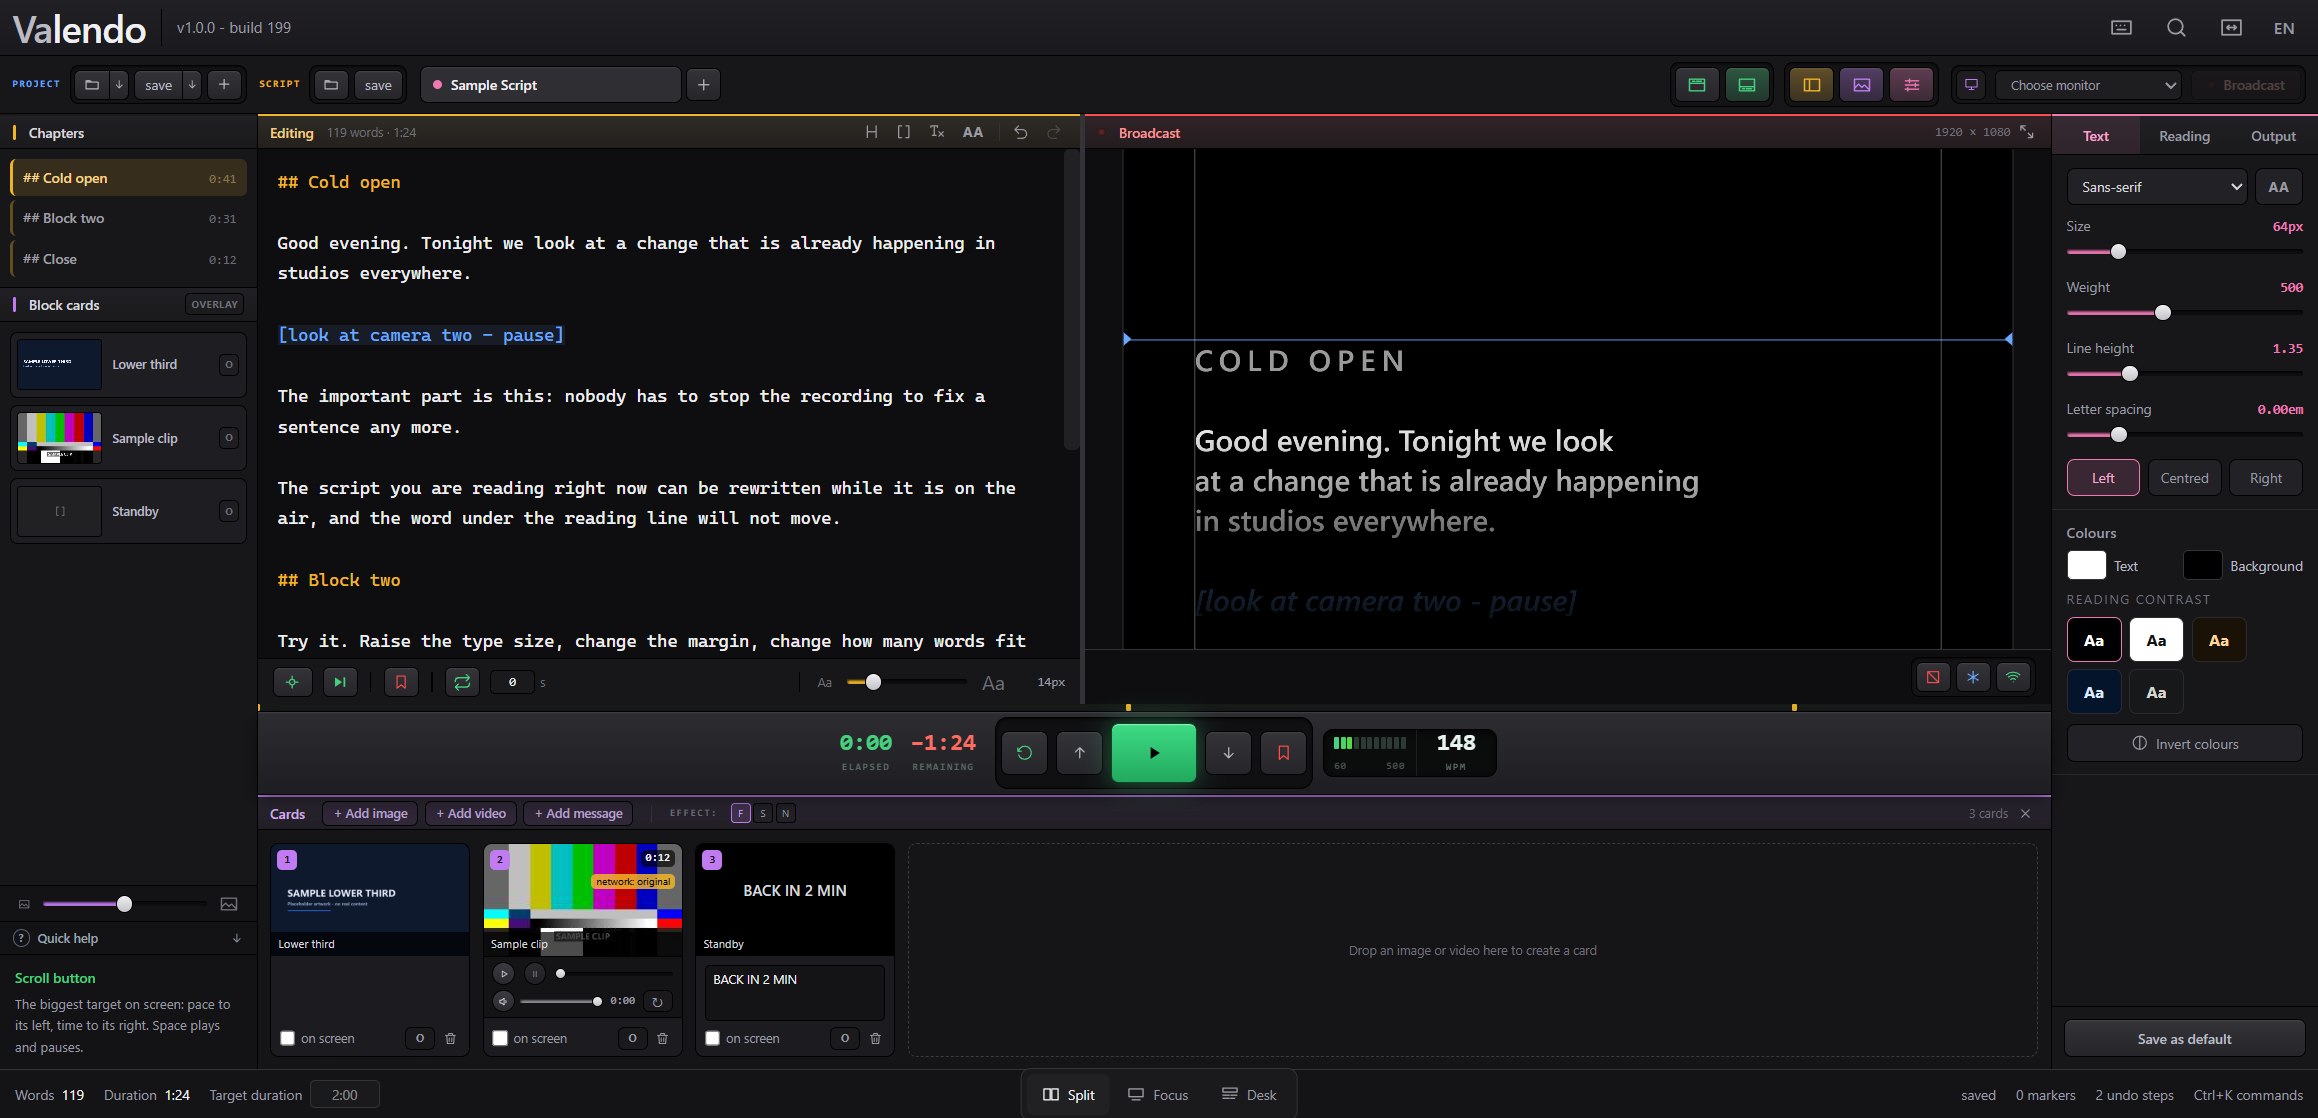
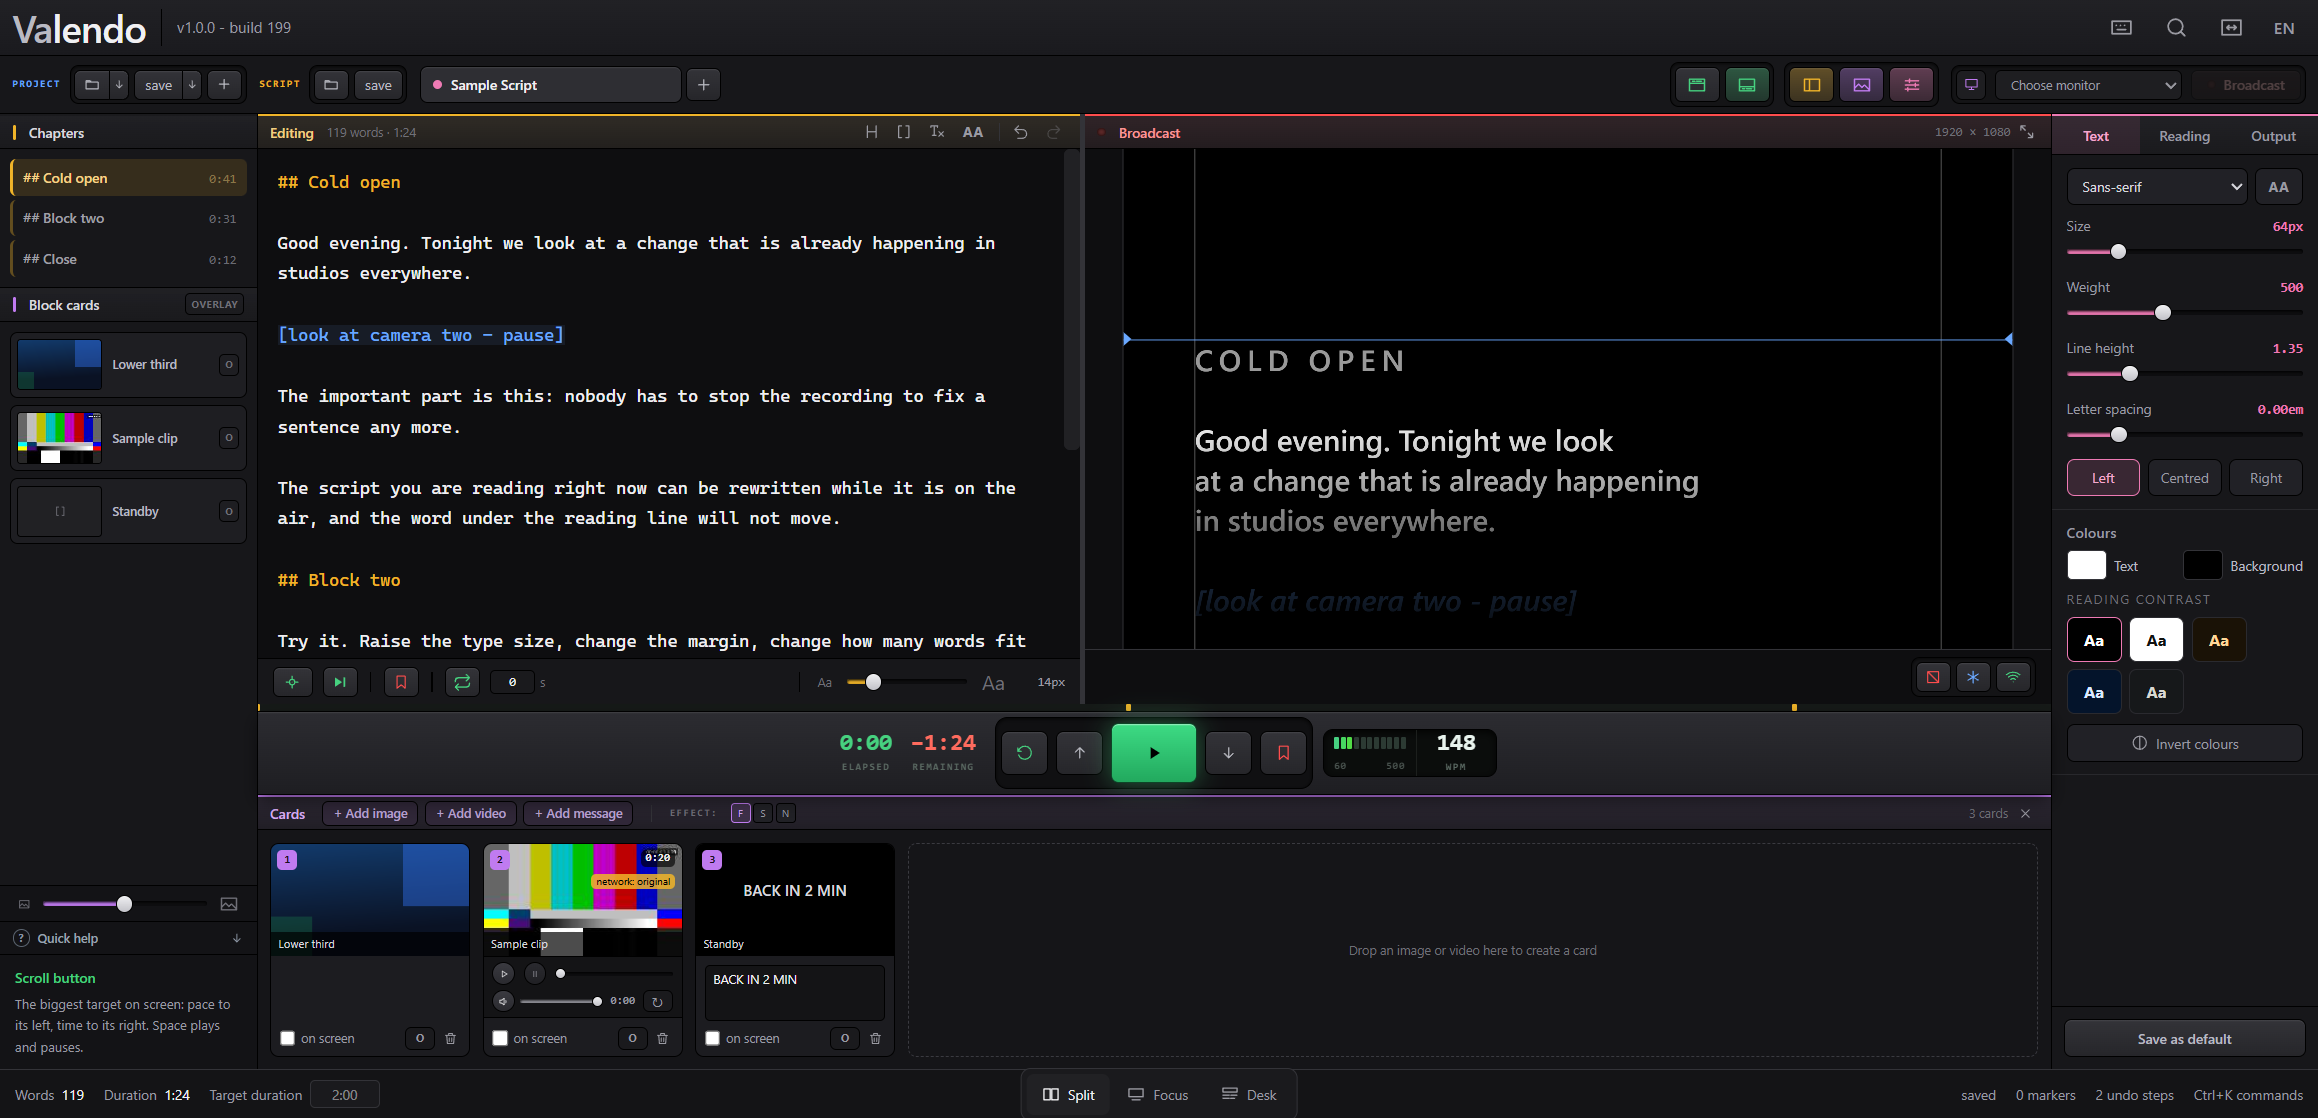
README enxuto, e uma foto de overlay que explica o overlay
O README tinha material que é de quem trabalha no código, não de quem chega
pelo GitHub: como o número de build sobe, a estrutura de pastas, a tabela de
arquivos em userData, a lista inteira de comandos npm. Isso foi para a wiki,
que já era o lugar, e o README ficou sendo o que deveria: o que o app é, por
que existe, o que faz, com imagem, e como instalar.

A nota do ffmpeg não saiu inteira, virou uma linha com link. Ela é obrigação
de licença, não capricho: o instalador redistribui um binário GPL, e quem
redistribui tem de dizer onde está o fonte correspondente. O texto completo,
com as flags de compilação, continua na wiki.

A FOTO DO OVERLAY. A que existia usava a arte de exemplo, e a arte tinha
texto próprio — resultado, texto sobre texto, que não explica ideia nenhuma.
Agora são duas: um clipe no ar com o roteiro por cima (barras de teste, sem
palavra nenhuma no meio) e a mesma coisa com uma arte abstrata, refeita sem
letras. O cronômetro do clipe foi para o canto superior direito, longe de
onde o roteiro rola.

As capturas foram renumeradas para caber a nova, e a wiki acompanhou.

Feito com Claude Code

Changed region(s): [[0.0932, 0.7299, 0.2174, 0.8515], [0.0, 0.3041, 0.0621, 0.3345]]

diff --git a/README.md b/README.md
@@ -6,7 +6,7 @@ A teleprompter for Windows and macOS where the operator **rewrites the script wh
 
 ![The operator window: editor on the left, an exact replica of the presenter's screen on the right](docs/screenshots/02-split.png)
 
-Free software under the GPL — see [Licence](#licence).
+**[Documentation is in the wiki →](https://github.com/samaBR85/Valendo-TeleprompterSuite/wiki)**
 
 ---
 
@@ -16,11 +16,7 @@ Ordinary teleprompters store the scroll position **in pixels**. Any change to th
 
 Here the position is a **semantic anchor**: `{ blockId, wordOffset }`. After any reflow the pixel is recomputed from it. Inserting paragraphs above the reading point, raising the type size or changing the margin does not move the word being read.
 
-Three design consequences follow:
-
-- **A clock, not messages.** The main process keeps only `{ppm, wordsAtStart, startedAt}`; each window derives its own position inside a `requestAnimationFrame`. No per-frame traffic, no drift between the preview and the output.
-- **One component.** `PrompterCanvas` draws the broadcast *and* the operator's preview. The preview runs at the output's real viewport and only gets a `scale()`. The replica is exact by construction, not by calibration.
-- **Line composition independent of the font.** Lines are composed by a word rule (min/max, never ending on a preposition), not by the browser. Changing the type size changes the height, never which words land on which line.
+[The Reading Anchor](https://github.com/samaBR85/Valendo-TeleprompterSuite/wiki/The-Reading-Anchor) explains what follows from that — a clock instead of messages, one component drawing both screens, and lines composed by words rather than by the browser.
 
 ---
 
@@ -28,45 +24,41 @@ Three design consequences follow:
 
 ### Live editing, on air
 
-The left panel is the script; the right panel is what the presenter sees, at the output's real resolution. Chapters open with `##`, stage directions go in `[square brackets]` and are painted, never spoken aloud by the count. The footer keeps word count, duration and target duration in view.
+The left panel is the script; the right panel is what the presenter sees, at the output's real resolution. `##` opens a chapter, `[square brackets]` mark a stage direction.
 
-### Cards over or under the text
+### Cards over or under the script
 
-![Cards drawer with an image, a video and a message card, one of them overlaying the script](docs/screenshots/04-overlay.png)
+![A video card on air with the script riding over it](docs/screenshots/05-overlay-video.png)
 
-Three kinds of card — image, video, message — go to the presenter's screen with one click or a number key. Each card either **replaces** the script or **rides over it**, which is how a lower third and a caption share the same screen. Legibility over a card is a three-way choice: dark band, per-letter shadow, or nothing.
+Images, video and messages go to the presenter's screen with one click or a number key. Each card either **replaces** the script or **rides over it**, which is how a lower third and a caption share the same screen. Legibility over a card is a three-way choice: dark band, per-letter shadow, or nothing.
 
-Video plays the file as it arrived whenever the browser can handle it — most phone `.mov` files play untouched. When it cannot (ProRes, matroska, avi), ffmpeg first tries to change only the container, which takes seconds and does not touch a pixel, and re-encodes only when the content genuinely will not fit an mp4.
+![An image card with the script over it, and the cards drawer below](docs/screenshots/04-overlay-image.png)
 
-![The cards drawer with the player row, per-card overlay toggles and the drop zone](docs/screenshots/03-cards.png)
+Video plays the file as it arrived whenever the browser can handle it. When it cannot, ffmpeg first tries to change only the container — seconds, no pixel touched — and re-encodes only when the content genuinely will not fit an mp4.
 
 ### Three ways to work
 
-**Split** is the picture above. **Focus** hides everything except the script and the transport, for the last rehearsal before air.
+**Split** is the picture at the top. **Focus** hides everything except the script and the transport. **Desk** turns the script into a rundown with a timeline.
 
-![Focus mode](docs/screenshots/05-focus.png)
-
-**Desk** turns the script into a rundown: blocks with word counts, durations and on-air status, and a timeline across the top.
-
-![Desk mode with the rundown and the timeline](docs/screenshots/06-deck.png)
+![Desk mode with the rundown and the timeline](docs/screenshots/07-desk.png)
 
 ### The presenter's screen
 
-![The presenter's screen: the reading line, the current sentence bright, what is coming dimmed](docs/screenshots/08-broadcast.png)
+![The presenter's screen](docs/screenshots/09-broadcast.png)
 
-Picks any connected monitor, identifies which is which on screen, survives a monitor being unplugged mid-show. Mirror on either axis, 90° rotation, blackout and freeze.
+Any connected monitor, identified on screen before you send a show to it. Mirror on either axis, 90° rotation, blackout and freeze. Survives a monitor being unplugged mid-show.
 
 ### Anyone on the wi-fi can follow along
 
-![The network panel with the address, a QR code and the video weight profiles](docs/screenshots/07-network.png)
+![The network panel with the address and a QR code](docs/screenshots/08-network.png)
 
-One switch publishes the reading to a local page. A phone points its camera at the QR code and follows the same scroll, cards included. Video going to the network can be throttled to five weight profiles; the presenter's screen always gets the original.
+One switch publishes the reading to a local page. A phone points its camera at the QR code and follows the same scroll, cards included. Video to the network can be throttled; the presenter's screen always gets the original.
 
 ### It opens without opening your work
 
-![The welcome screen: language, recent projects, and four ways in](docs/screenshots/01-welcome.png)
+![The welcome screen](docs/screenshots/01-welcome.png)
 
-The app never restores the last script by itself. Opening Valendo in someone else's studio, or with the screen already mirrored to a wall, used to reveal the previous show without anyone asking — and a script is a client's material. The screen starts blank and **Pick up where I left off** is a deliberate click.
+The app never restores the last script by itself. Opening Valendo in someone else's studio, or with the screen already mirrored to a wall, would otherwise reveal the previous show without anyone asking — and a script is a client's material. The screen starts blank and **Pick up where I left off** is a deliberate click.
 
 ---
 
@@ -86,74 +78,20 @@ The app never restores the last script by itself. Opening Valendo in someone els
 | Console | Command palette, remappable keys, UI scale, transport at the top or in the footer bar |
 | Languages | English, Portuguese (Brazil), Spanish, German, French, Italian |
 
-Machine preferences (window size, panel widths, thumbnail size, UI scale) are kept apart from the project, so a `.valendo` sent to a colleague never resizes their console.
-
-### Import cleanup
-
-Text is cleaned before it becomes a script: a word hyphenated at a line break is rejoined, a line that was only a page break is merged, repeated headers and page numbers are dropped, quotes are straightened, and legacy encodings are detected — an old Windows-1252 `.txt` does not turn into a soup of diamonds.
-
-In PDFs the text is rebuilt from fragment coordinates, two-column layouts included, and a sentence that crosses a page break comes back whole. A scanned PDF is flagged as such; OCR is the next milestone.
-
 ---
 
-## Running from source
+## Install
+
+**Windows** — run `Valendo-1.0.0-setup.exe`. It installs per user, so it does not ask for an administrator password.
+
+**From source** —
 
 ```bash
 npm install
 npm run dev
 ```
 
-| Command | What it does |
-|---|---|
-| `npm run build` | Bundles main, preload and renderer into `out/` |
-| `npm test` | Tests the pure logic in `src/shared` and `src/main` |
-| `npm run typecheck` | Type check |
-| `npm run start:debug` | Runs the built app with remote debugging on port 9222 |
-| `npm run verify` | Checks the acceptance criteria against the running app (needs `start:debug`) |
-| `npm run dist:win` | Builds the Windows installer (NSIS) into `dist/` |
-
-If `npm install` does not fetch the Electron binary, run `node node_modules/electron/install.js`.
-
-Windows users who do not have Node installed can double-click **Abrir Valendo.bat**, which installs and builds on the first run.
-
----
-
-## Layout
-
-```
-src/main/       windows, monitors, authoritative state, persistence
-src/preload/    the IPC bridge exposed to the renderer
-src/shared/     pure, testable logic: anchor, lines, pacing, history, commands
-src/renderer/   prompter (shared), operator interface, broadcast window
-scripts/        end-to-end verification over the Chromium protocol
-docs/           screenshots used here and in the wiki
-```
-
-User data lives in `userData`:
-
-| File | What it holds |
-|---|---|
-| `workspace.json` | The last session, restored only when you ask for it |
-| `history/<tabId>.jsonl` | Persisted infinite undo |
-| `recentes.json` | Recent projects (per machine, never inside a `.valendo`) |
-| `defaults.json` | How a new tab is born |
-| `ui.json` | Interface scale |
-| `keymap.json` | Remapped keys |
-| `cartoes/`, `convertidos/` | Card artwork and playable video copies |
-
----
-
-## Versioning
-
-The semantic version is a human decision and sits at `1.0.0`. The build number rises on its own with every `npm run build`, and shows in the app header and credits as `v1.0.0 - build N`.
-
----
-
-## Redistributed ffmpeg
-
-The installer carries an ffmpeg along, through [`ffmpeg-static`](https://www.npmjs.com/package/ffmpeg-static) (version pinned in `package-lock.json`). It is a **GPL** build of ffmpeg 6.1.1, compiled by gyan.dev with `--enable-gpl --enable-version3 --enable-libx264` — compatible with this project's licence.
-
-The corresponding source is at [ffmpeg.org/download.html](https://ffmpeg.org/download.html) and in the [official repository](https://git.ffmpeg.org/ffmpeg.git), tag `n6.1.1`.
+Everything else a contributor needs — the other commands, the project layout, the tests, where user data lives — is in [Building from Source](https://github.com/samaBR85/Valendo-TeleprompterSuite/wiki/Building-from-Source).
 
 ---
 
@@ -163,4 +101,6 @@ GNU General Public License, version 3 or later — the full text is in [LICENSE]
 
 In plain words: you may use, study, modify and redistribute Valendo freely, including in a studio that charges for the work. The one obligation appears when you **distribute** a modified version — its source has to travel with it, under this same licence.
 
-That is the intent of the project: it was born to stay free. The GPL does not stop anyone from charging, but it does stop anyone from closing the source and turning this into a proprietary product — whoever sells it must hand over the source and the same freedoms to the buyer.
+That is the intent of the project: it was born to stay free. The GPL does not stop anyone from charging, but it does stop anyone from closing the source and turning this into a proprietary product.
+
+The installer redistributes a **GPL build of ffmpeg 6.1.1**; the corresponding source and build flags are listed in [Building from Source](https://github.com/samaBR85/Valendo-TeleprompterSuite/wiki/Building-from-Source#redistributed-ffmpeg).
